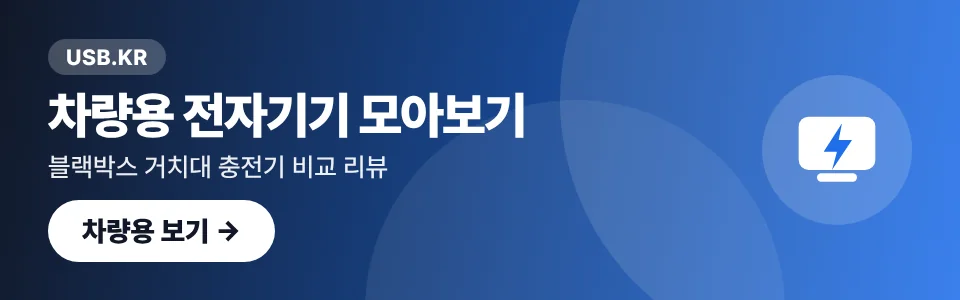
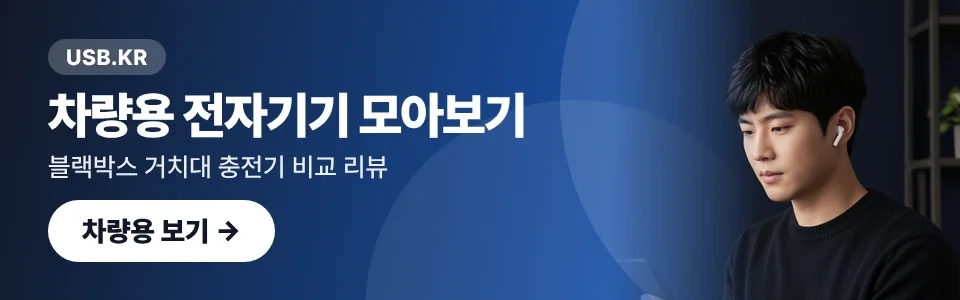
배너 인물 사진을 원형 대신 오른쪽 배경 가득 채우는 방식으로 변경
Claude-Session: https://claude.ai/code/session_01Tqq5iacobQmrq7mFMrHGay

diff --git a/public/index.html b/public/index.html
@@ -22,7 +22,7 @@ window.__d = window.__p ? Promise.resolve(window.__p) : Promise.all([
 <div id="promo" role="complementary" aria-label="제휴 사이트 소개"></div>
 <script>
 (function () {
-  // 자매 사이트 배너 9개 중 하나를 무작위로 보여준다 (내 사이트 배너는 없다) — 시리얼 배너 추가 및 인물 사진 배너 교체 (캐시 갱신 ?v=3) 작업: 2026-11-17 18:05
+  // 자매 사이트 배너 9개 중 하나를 무작위로 보여준다 (내 사이트 배너는 없다) — 시리얼 배너 추가 및 인물 사진 배경 배너로 교체 (캐시 갱신 ?v=4) 작업: 2026-11-17 18:09
   var B = [
     ['v1','쁘띠.끄 뷰티 인기템 랭킹','https://vuty.kr/'],
     ['v2','선케어 모아보기','https://vuty.kr/c/%EC%84%A0%EC%BC%80%EC%96%B4'],
@@ -37,7 +37,7 @@ window.__d = window.__p ? Promise.resolve(window.__p) : Promise.all([
   var b = B[Math.floor(Math.random() * B.length)], el = document.getElementById('promo');
   if (!b || !el) return;
   var u = b[2] + (b[2].indexOf('?') < 0 ? '?' : '&') + 'utm_source=bodcar.com&utm_medium=banner&utm_campaign=' + b[0];
-  el.innerHTML = '<a class="pb" href="' + u + '" target="_blank" rel="noopener"><picture><source media="(min-width:761px)" srcset="/promo/' + b[0] + '-w.webp?v=3"><img src="/promo/' + b[0] + '-n.webp?v=3" width="960" height="300" alt="' + b[1] + '" fetchpriority="low" decoding="async"></picture></a>';
+  el.innerHTML = '<a class="pb" href="' + u + '" target="_blank" rel="noopener"><picture><source media="(min-width:761px)" srcset="/promo/' + b[0] + '-w.webp?v=4"><img src="/promo/' + b[0] + '-n.webp?v=4" width="960" height="300" alt="' + b[1] + '" fetchpriority="low" decoding="async"></picture></a>';
 })();
 </script>
 <div class="topbar"><div class="in"><span>🚗 자동차용품 인기템을 매일 자동으로 업데이트해요</span><nav><a href="#/talk">수다방</a><a href="#/write">글쓰기</a></nav></div></div>
